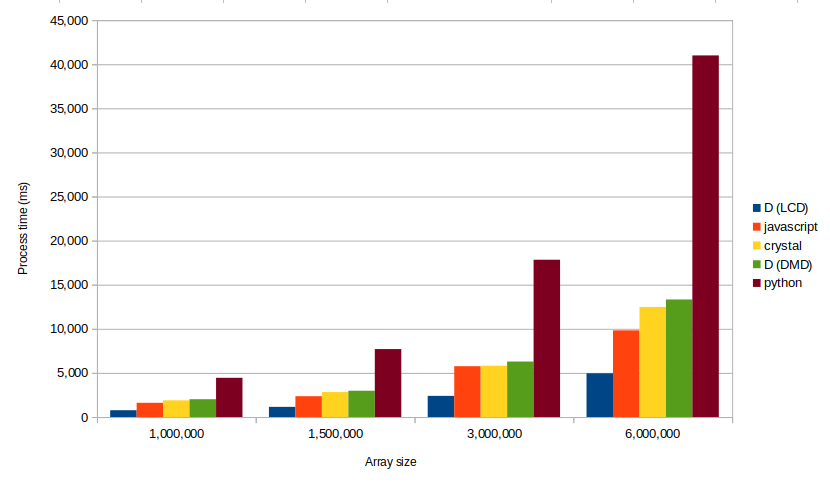
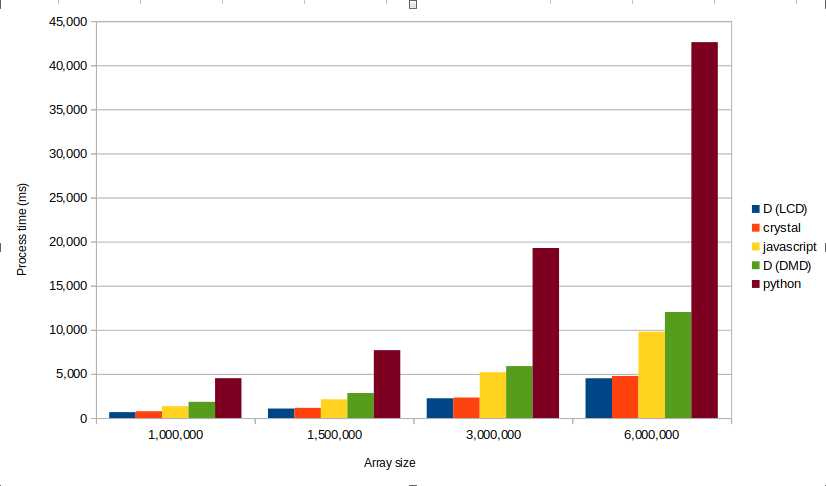
* Updated tests results * Updated individual tests command-lines

diff --git a/README.md b/README.md
@@ -42,10 +42,9 @@ Here comes the surprise (at least for me):  Javascript version performs better t
 * Javascript (node):  **1610 ms**
 * D (DMD compiler):  **2017 ms**
 
-Main problem is DMD compiler (compiles fast, but performance is not the best).  D has various compilers... the **lcd2** compiler can generate optimized binaries
+Main problem is DMD compiler (compiles fast, but resulting executable is poorly optimized).  A good alternative is the **lcd2** compiler that generates can generate optimized binaries
 
 * D (LDC2 compiler):  **772 ms**
-
 
 I decided to write similar code in other languajes and compare.
 
@@ -75,54 +74,59 @@ The resulting final table for different sets of data
 ![Process time](assets/process_time_graph.png)
 
 ```
-D (LCD)
-1.0M: 772 ms
-1.5M: 1152 ms
-3.0M: 2398 ms
-6.0M: 4952 ms
-javascript (node)
-1.0M: 1610 ms
-1.5M: 2355 ms
-3.0M: 5760 ms
-6.0M: 9829 ms
-Crystal
-1.0M: 1888.0 ms
-1.5M: 2829.0 ms
-3.0M: 5813.0 ms
-6.0M: 12477.0 ms
 D (DMD)
-1.0M: 2017 ms
-1.5M: 2974 ms
-3.0M: 6285 ms
-6.0M: 13328 ms
+1.0M: 1838 ms
+1.5M: 2833 ms
+3.0M: 5885 ms
+6.0M: 12016 ms
+D (LCD)
+1.0M: 665 ms
+1.5M: 1074 ms
+3.0M: 2234 ms
+6.0M: 4500 ms
+Crystal
+1.0M: 771.0 ms
+1.5M: 1152.0 ms
+3.0M: 2321.0 ms
+6.0M: 4772.0 ms
+javascript (node)
+1.0M: 1342 ms
+1.5M: 2119.6 ms
+3.0M: 5187.2 ms
+6.0M: 9785.2 ms
 python
-1.0M: 4445 ms
-1.5M: 7698 ms
-3.0M: 17826 ms
-6.0M: 41000 ms
+1.0M: 4509 ms
+1.5M: 7691 ms
+3.0M: 19277 ms
+6.0M: 42620 ms
 
 ```
+
 ## Do you know how to improve?
+
 I include the code to the 4 tests.  Please, tell me if you see something we can improve:
-* Avoid imperative instructions:  "sorted" must be an unique expression or, at least, an unique "return ..." statement funcion.  
+
+* Avoid imperative instructions:  "sorted" must be an unique expression or, at least, an unique "return ..." statement funcion.
 * Of course, you can't use built-in library sort methods :-)
 * Remember that this is not a quick-sort performance test (that, obviously, can be implemented in a more efficient way)
-
 
 ## Running the tests
 
 ### Prerequisites
 
-All tests has been executed on a Ubuntu 20.04 linux.  
+All tests has been executed on a Ubuntu 20.04 linux.
 Tests require **Nodejs**, **Python3**, **DMD** compiler and **Crystal** compiler
 
 **Javascript**:  Test runs on Node, I use node 12.20 (see [NodeSource distributions](https://github.com/nodesource/distributions/blob/master/README.md) for more information)
 
 **Python**:  Ubuntu comes with **python 3** preinstalled.  Test the version with
+
 ```shell
 $ pythong3 --version
 ```
+
 **D**:  We use **DMD** and **LDC**. The two ones are available in Ubuntu official repositories.
+
 ```shell
 $ sudo apt install dmd
 $ sudo apt install ldc
@@ -152,22 +156,31 @@ $ test.sh
 Or test them individually
 
 **D (LDC)**
+
 ```shell
-$ ldc2 -O -release  --run sorted.d 
+$ ldc2 -O5 -release -enable-cross-module-inlining --run sorted.d 
 ```
+
 **D (DMD)**
+
 ```shell
-$ dmd -O -run sorted.d
+$ dmd -O -release -run sorted.d
 ```
+
 **Javascript**
+
 ```shell
 $ node sorted.js
 ```
+
 **Crystal**
+
 ```shell
-$ crystal sorted.cr --release
+$ crystal run sorted.cr --release
 ```
+
 **Python**
+
 ```shell
 $ python3 sorted.py
 ```
